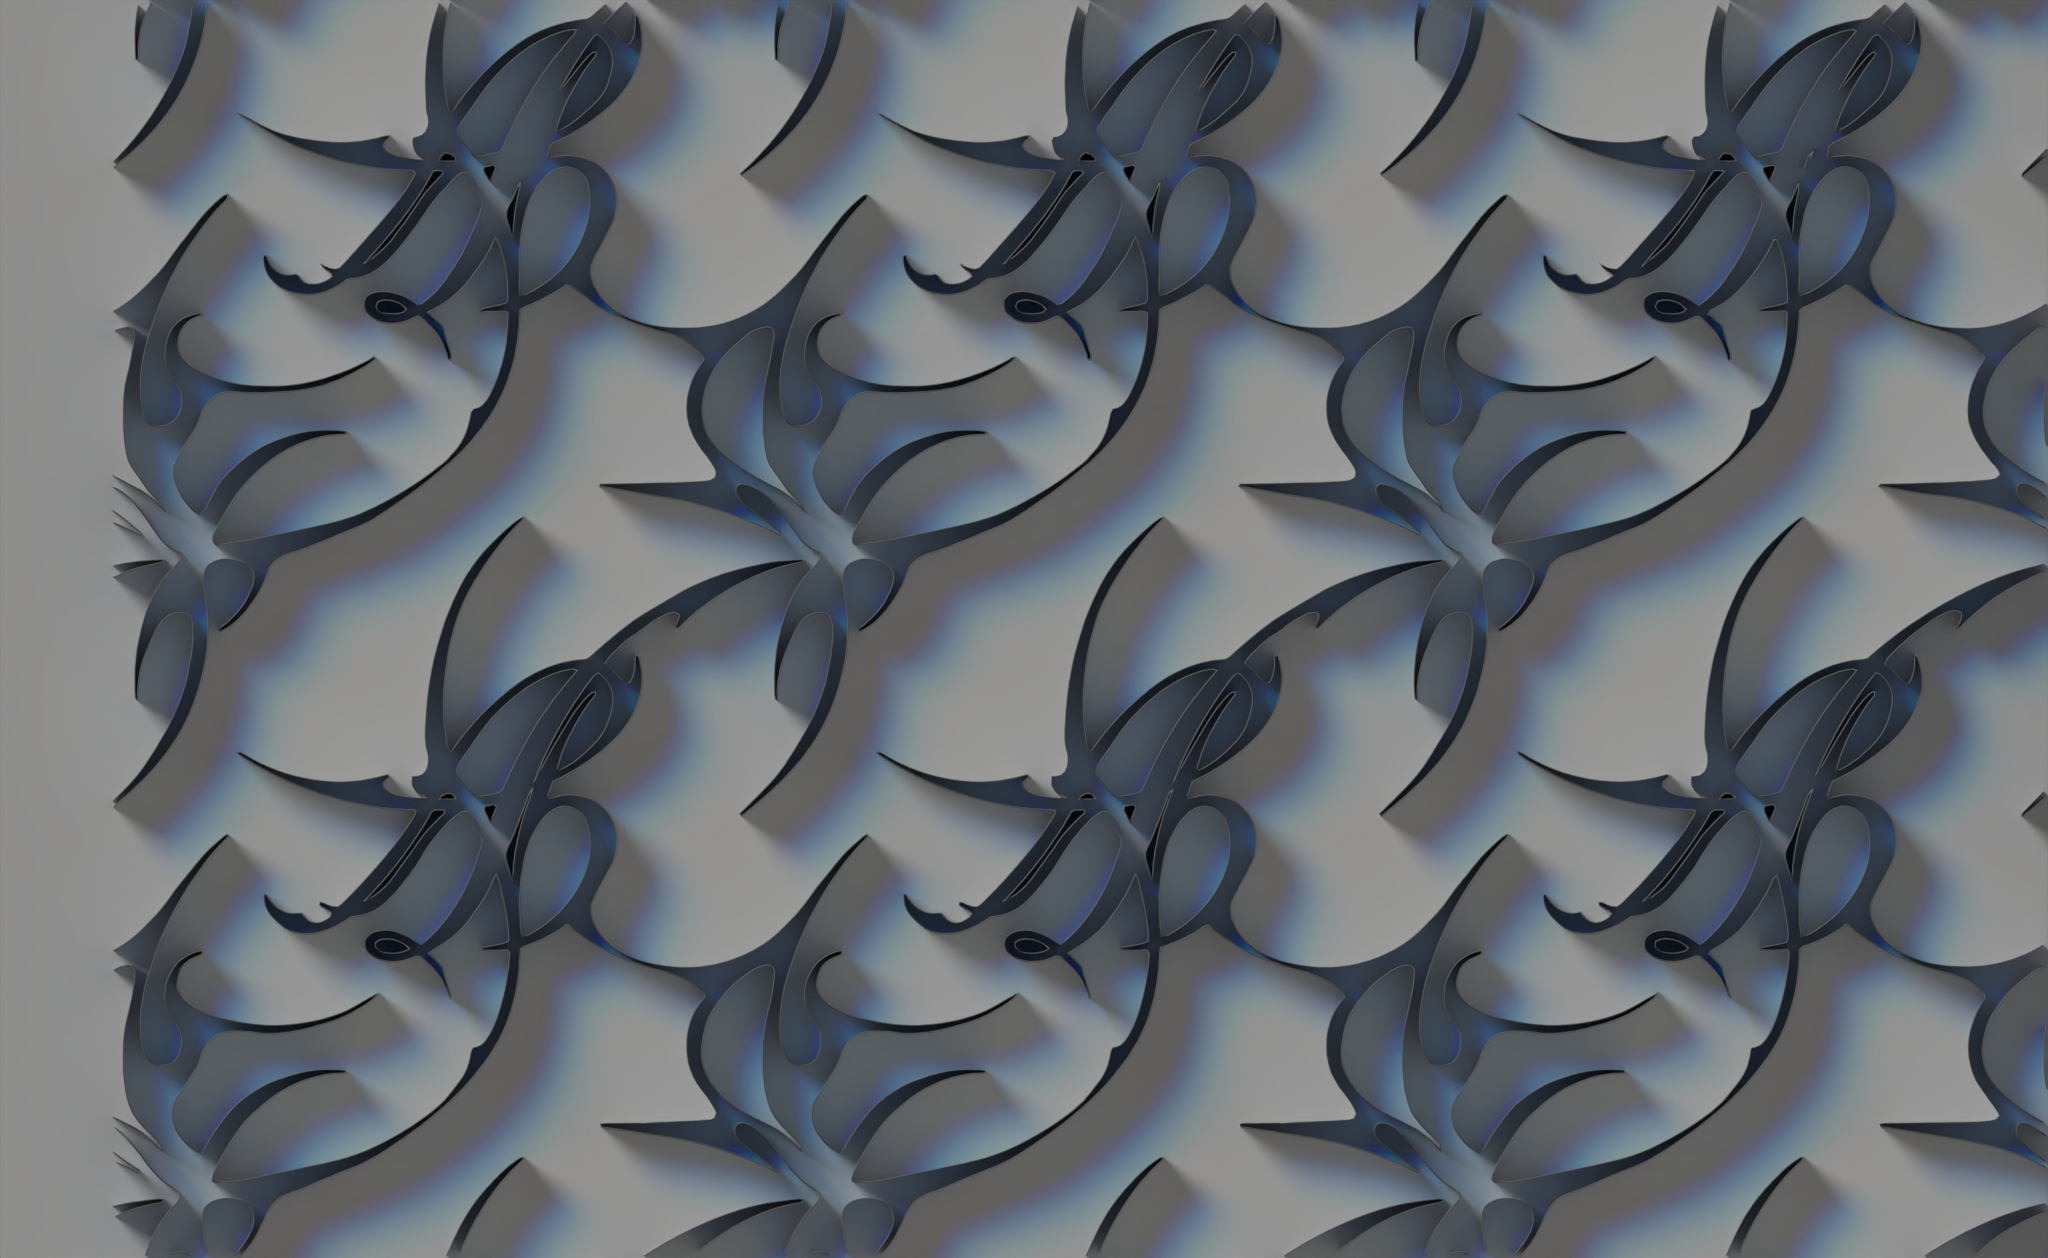
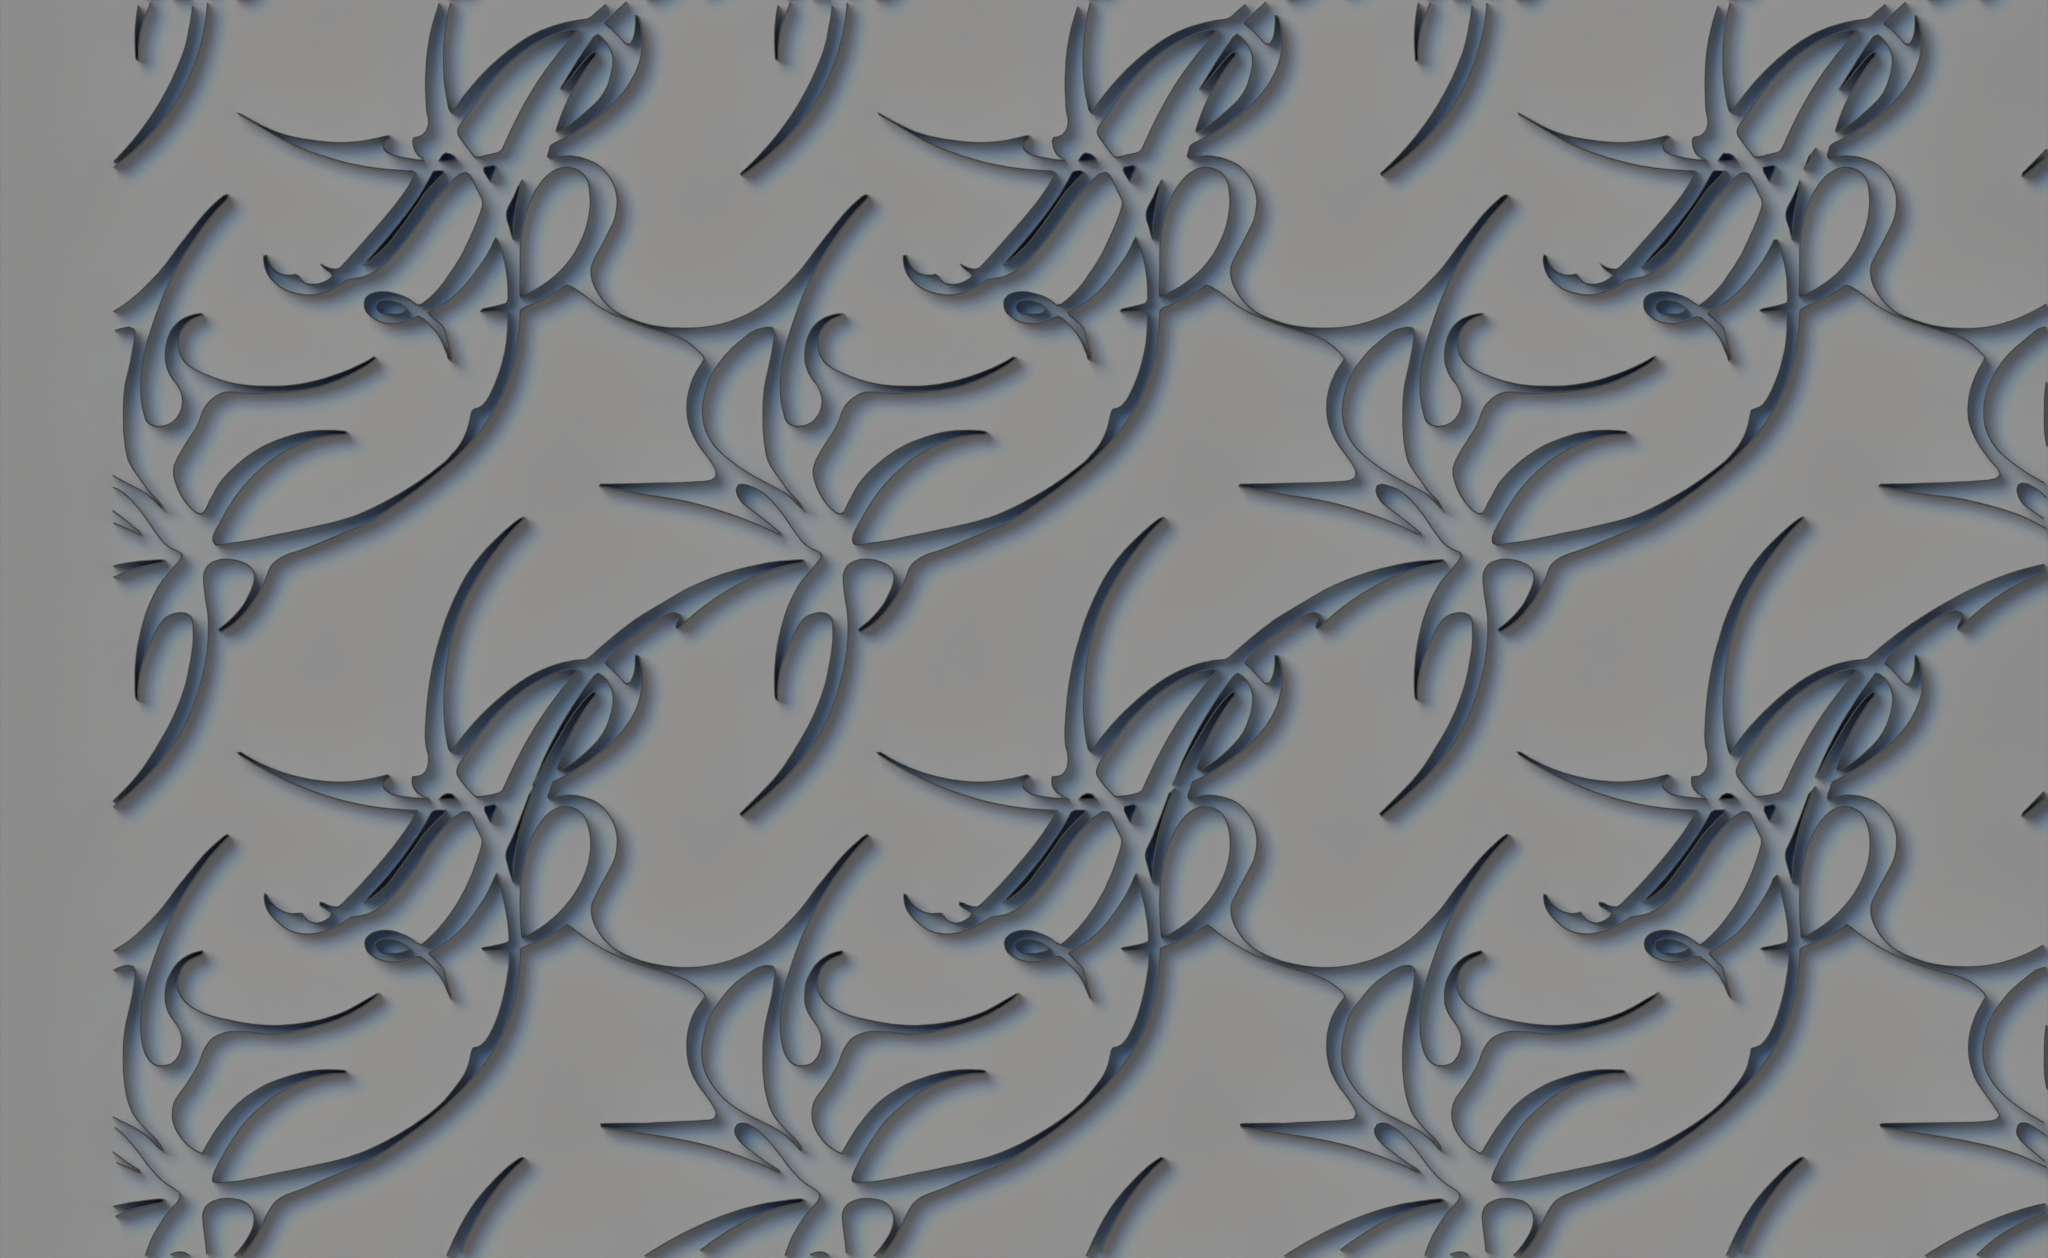
ver3: shorter shadows, red sheen off
- Re-bake at shallower depth (3.0% of width) with a steeper, more overhead
  key light, so cast shadows are shorter and the relief geometry reads
  cleanly against the plate (closer to the Original reference look).
- Disable the chromatic red sheen (CHROMA.enabled = false).

diff --git a/ver3/index.html b/ver3/index.html
@@ -34,7 +34,7 @@
 <!-- dev: import with a timestamp so an edit to main.js is never masked by Chrome's
      module cache (a plain src="./main.js" gets revalidated as 304 and the browser
      keeps running the old build). The packaged build stamps this properly. -->
-<script type="module" src="./main.js?v=20260724104714"></script>
+<script type="module" src="./main.js?v=20260725102220"></script>
 </body>
 </html>
 

diff --git a/ver3/main.js b/ver3/main.js
@@ -70,7 +70,7 @@ const FAST = {
 };
 
 const CHROMA = {
-  enabled: true,         // master switch for the chromatic layer
+  enabled: false,        // master switch for the chromatic layer
   color: 0xff3300,       // the mask color
   saturation: 0.6,       // pulls that color toward its own gray. 1 = the raw hex,
                          //   0 = no color. Luminance-preserving.
